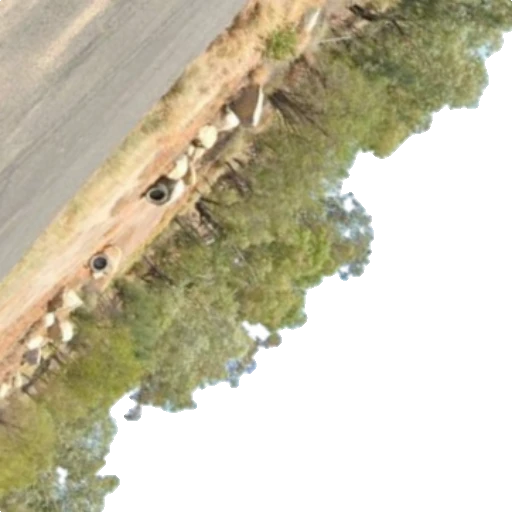
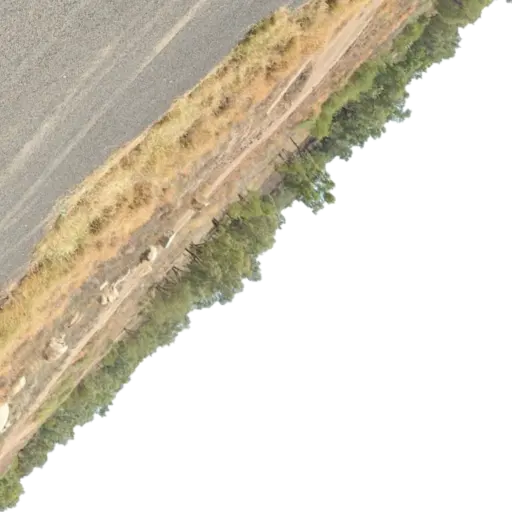
Added landscape images & data source to MapView component

diff --git a/src/components/MapView.tsx b/src/components/MapView.tsx
@@ -19,12 +19,20 @@ export default function MapView() {
 
 		// If engine is available, you can configure it here
 		if (engine) {
+			const core = engine.getModule('core');
+			console.log(core);
+
 			// Set location to Brewarrina Fish Traps
 			swh.setObserverLocation(engine, -29.958, 146.8534);
 
 			// Toggle atmosphere
 			swh.toggleAtmosphere(engine, true);
 			swh.setFOV(engine, 2.09);
+
+			core.landscapes.addDataSource({
+				url: 'src/assets/test-skydata/landscapes/guereins',
+				key: 'guereins',
+			});
 		}
 	}, [engine, initEngine]);
 
